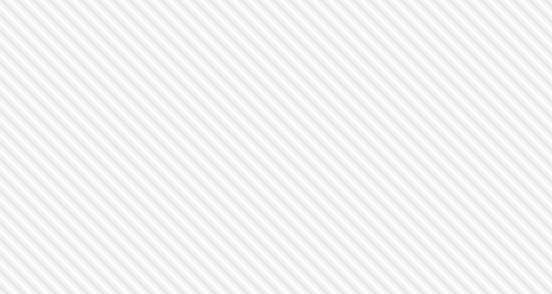
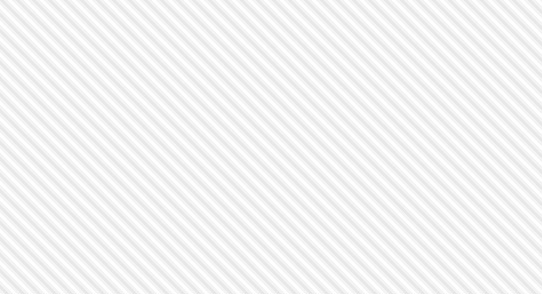
Backgrounds

diff --git a/contact.html b/contact.html
@@ -35,10 +35,10 @@
     <!-- ******HEADER****** -->
     <header class="header">
         <div class="container">
-            <img class="profile-image img-responsive pull-left" href = "index.html" src="assets/images/profile.png" alt="Andy Craig" />
+            <a href = "index.html"><img class="profile-image img-responsive pull-left" href = "index.html" src="assets/images/profile.png" alt="Andy Craig" width="200px" height="200px"></img></a>
             <div class="profile-content pull-left">
                 <h1 class="name">Andy Craig</h1>
-                <h2 class="desc">High School Student</h2>
+
                 <ul class="social list-inline">
                     <li><a href="https://www.facebook.com"><i class="fa fa-facebook"></i></a></li>
                     <li><a href="https://www.twitter.com"><i class="fa fa-twitter"></i></a></li>
@@ -47,7 +47,7 @@
 
                 </ul>
             </div><!--//profile-->
-            <a class="btn btn-cta-primary pull-right" href="http://andycraig.tech"><i class="fa fa-backward"></i> Back</a>
+            <a class="btn btn-cta-primary pull-right" href="index.html"><i class="fa fa-backward"></i> Back</a>
         </div><!--//container-->
     </header><!--//header-->
 

diff --git a/assets/css/styles.css b/assets/css/styles.css
@@ -2,7 +2,7 @@
 body {
   font-family: 'Lato', arial, sans-serif;
   color: #434343;
-  background: url(background.jpg) repeat;
+  background: url(background5.jpg) repeat;
   font-size: 16px;
   -webkit-font-smoothing: antialiased;
   -moz-osx-font-smoothing: grayscale;
@@ -114,6 +114,8 @@ iframe {
   padding: 30px 0;
   background: url(background2.jpg) repeat; ;
   border-top: 10px solid #778492;
+  border-bottom: 10px solid #778492;
+
 }
 .header .btn {
   margin-top: 60px;
